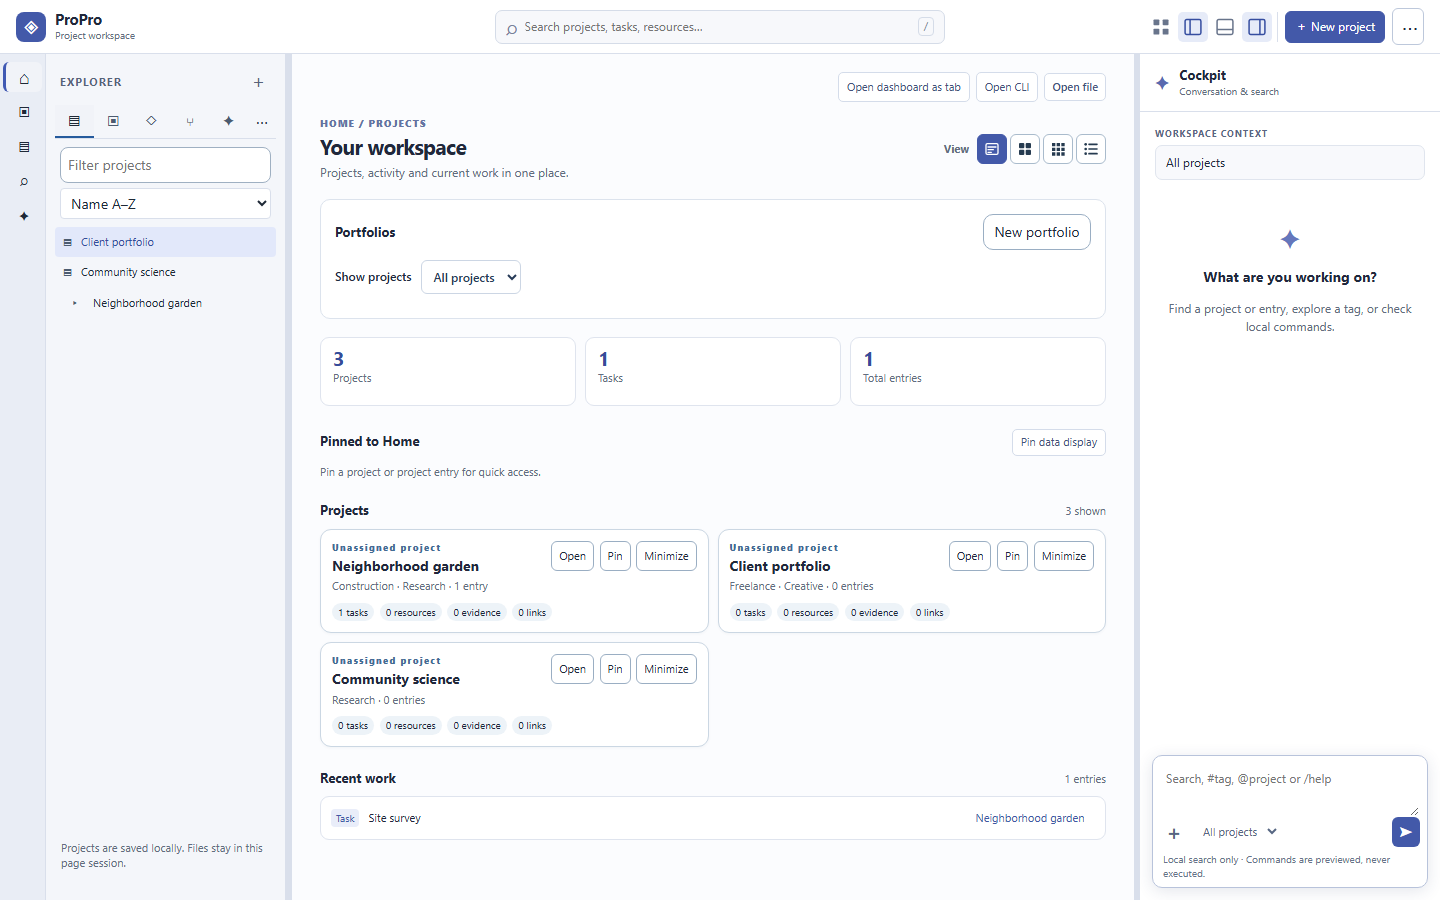
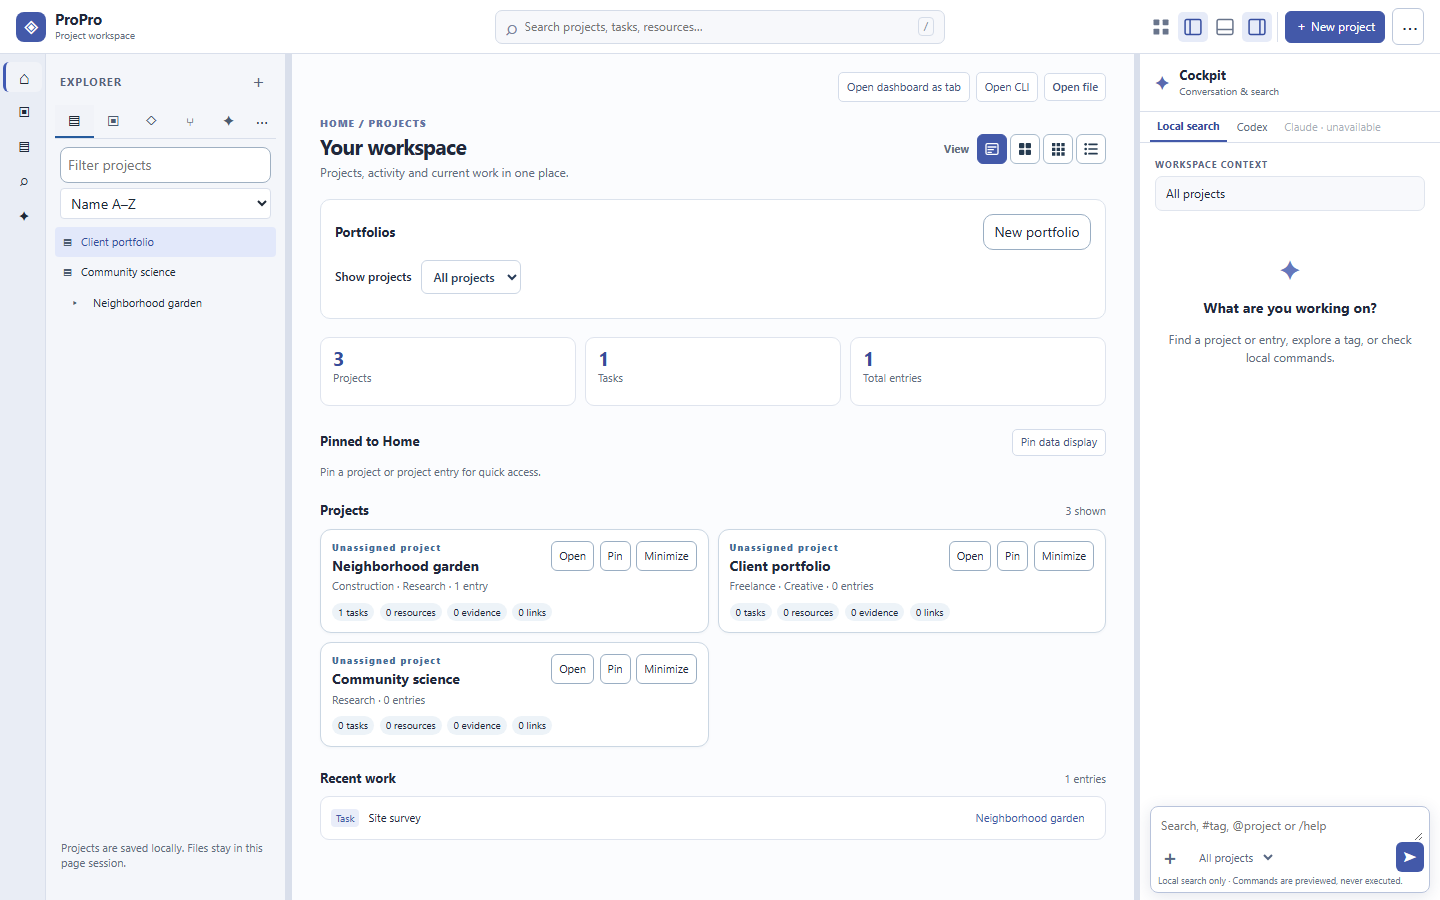
Bound workspace resizing and connect persistent Codex conversations
Change-Level: DRIVE
Dev-Docs: updated
Validation: 13 unit tests and 16 browser tests passed; real native session resumed after reload and history survived restart
Reason: Owner-requested fixed-height pane resizing, compact composer and real agent environment

diff --git a/index.html b/index.html
@@ -17,7 +17,7 @@
   <main id="workbench" aria-label="Project workspace">
     <aside id="explorer" aria-label="Workspace explorer"><div class="explorer-head"><h2>Explorer</h2><button type="button" data-new aria-label="Add project" title="Add project">＋</button></div><div id="tabbed-explorer"></div><p class="hint">Projects are saved locally. Files stay in this page session.</p></aside>
     <section id="content" aria-label="Project dashboard"><div class="content-head"><div><p class="eyebrow">HOME / PROJECTS</p><h2 id="dashboard-heading" tabindex="-1">Your workspace</h2><p id="project-count" class="muted"></p></div><div class="layout-picker"><span class="layout-picker__label" id="layout-label">View</span><div class="view-switch" role="group" aria-labelledby="layout-label"><button type="button" data-mode="large" aria-label="Large tiles" title="Large tiles"><svg viewBox="0 0 24 24" aria-hidden="true" focusable="false"><rect x="3" y="4" width="18" height="16" rx="2" fill="none" stroke="currentColor" stroke-width="2"/><path d="M6 9h12M6 13h8M6 17h5" fill="none" stroke="currentColor" stroke-width="2" stroke-linecap="round"/></svg></button><button type="button" data-mode="mini" aria-label="Mini tiles" title="Mini tiles"><svg viewBox="0 0 24 24" aria-hidden="true" focusable="false"><rect x="3" y="3" width="8" height="8" rx="1.5"/><rect x="13" y="3" width="8" height="8" rx="1.5"/><rect x="3" y="13" width="8" height="8" rx="1.5"/><rect x="13" y="13" width="8" height="8" rx="1.5"/></svg></button><button type="button" data-mode="grid" aria-label="Grid tiles" title="Grid tiles"><svg viewBox="0 0 24 24" aria-hidden="true" focusable="false"><path d="M3 3h5v5H3zm7 0h5v5h-5zm7 0h5v5h-5zM3 10h5v5H3zm7 0h5v5h-5zm7 0h5v5h-5zM3 17h5v5H3zm7 0h5v5h-5zm7 0h5v5h-5z"/></svg></button><button type="button" data-mode="list" aria-label="List tiles" title="List tiles"><svg viewBox="0 0 24 24" aria-hidden="true" focusable="false"><circle cx="4" cy="5" r="2"/><circle cx="4" cy="12" r="2"/><circle cx="4" cy="19" r="2"/><path d="M9 5h12M9 12h12M9 19h12" fill="none" stroke="currentColor" stroke-width="2.5" stroke-linecap="round"/></svg></button></div></div></div><section id="portfolios-home" class="portfolios-home" aria-label="Portfolios"></section><div id="overview-stats" class="overview-stats" aria-label="Workspace overview"></div><div class="section-head"><h3>Projects</h3><span id="section-count"></span></div><div id="cards" class="cards"></div><section id="recent-work" class="recent-work" aria-label="Recent work"></section><div id="detail"></div></section>
-    <aside id="context" aria-label="Conversation and search"><div class="context-head"><span class="context-icon" aria-hidden="true">✦</span><div><h2>Cockpit</h2><p>Conversation &amp; search</p></div></div><div class="context-content" tabindex="0" role="region" aria-label="Conversation content"><p class="context-eyebrow">WORKSPACE CONTEXT</p><div id="context-project" class="context-project">All projects</div><div class="context-welcome"><span class="context-spark" aria-hidden="true">✦</span><h3>What are you working on?</h3><p>Find a project or entry, explore a tag, or check local commands.</p></div><div id="composer-results" role="status" aria-live="polite"></div></div><form id="composer" class="composer"><label for="composer-input" class="sr-only">Ask or search workspace</label><textarea id="composer-input" rows="2" placeholder="Search, #tag, @project or /help"></textarea><div id="composer-suggestions" class="composer-suggestions" role="group" aria-label="Composer suggestions"></div><div id="composer-attachments" class="composer-attachments"></div><div class="composer-tools"><label class="attach-button" title="Add attachment" aria-label="Add attachment">＋<input id="composer-files" type="file" multiple></label><select id="composer-scope" aria-label="Search scope"><option value="all">All projects</option><option value="projects">Projects</option><option value="entries">Entries</option></select><button type="submit" class="composer-submit" aria-label="Search workspace" title="Search workspace">➤</button></div><p class="composer-note">Local search only · Commands are previewed, never executed.</p></form></aside>
+    <aside id="context" aria-label="Conversation and search"><div class="context-head"><span class="context-icon" aria-hidden="true">✦</span><div><h2>Cockpit</h2><p>Conversation &amp; search</p></div></div><div class="context-content" tabindex="0" role="region" aria-label="Conversation content"><p class="context-eyebrow">WORKSPACE CONTEXT</p><div id="context-project" class="context-project">All projects</div><div class="context-welcome"><span class="context-spark" aria-hidden="true">✦</span><h3>What are you working on?</h3><p>Find a project or entry, explore a tag, or check local commands.</p></div><div id="composer-results" role="status" aria-live="polite"></div></div><form id="composer" class="composer"><label for="composer-input" class="sr-only">Ask or search workspace</label><textarea id="composer-input" rows="1" placeholder="Search, #tag, @project or /help"></textarea><div id="composer-suggestions" class="composer-suggestions" role="group" aria-label="Composer suggestions"></div><div id="composer-attachments" class="composer-attachments"></div><div class="composer-tools"><label class="attach-button" title="Add attachment" aria-label="Add attachment">＋<input id="composer-files" type="file" multiple></label><select id="composer-scope" aria-label="Search scope"><option value="all">All projects</option><option value="projects">Projects</option><option value="entries">Entries</option></select><button type="submit" class="composer-submit" aria-label="Search workspace" title="Search workspace">➤</button></div><p class="composer-note">Local search only · Commands are previewed, never executed.</p></form></aside>
   </main>
   <dialog id="project-dialog" aria-labelledby="create-heading"><form id="project-form" class="stack"><h2 id="create-heading">Create project</h2><label>Project name<input name="name" maxlength="200" required placeholder="e.g. Neighborhood garden"></label><fieldset><legend>Capabilities (optional)</legend><div id="create-caps" class="cap-options"></div></fieldset><div class="row"><button class="primary" type="submit">Create project</button><button id="cancel-project" type="button">Cancel</button></div></form></dialog>
   <dialog id="portfolio-dialog" aria-labelledby="portfolio-heading"><form id="portfolio-form" class="stack"><h2 id="portfolio-heading">Create portfolio</h2><label>Portfolio name<input name="name" maxlength="200" required></label><div class="row"><button class="primary" type="submit">Save portfolio</button><button id="cancel-portfolio" type="button">Cancel</button></div></form></dialog>
@@ -26,5 +26,6 @@
   <script src="./node_modules/@cockpit/gui/src/tabbedExplorerUI.js"></script>
   <script src="./model.mjs"></script>
   <script src="./app.mjs"></script>
+  <script type="module" src="./chat-client.mjs"></script>
 </body>
 </html>

diff --git a/styles.css b/styles.css
@@ -233,8 +233,34 @@ body { background:#f5f6fa; }
 @media(min-width:1051px) {
   /* Keep a usable conversation row when the bottom panel is maximized.
      Short windows may scroll the page instead of overlapping the two panes. */
-  #workbench.has-bottom { min-height:max(540px,calc(var(--cockpit-bottom-height,240px) + 366px)); }
+  #workbench.has-bottom { min-height:0; }
 }
 @media(max-width:1050px) { #context.cockpit-workbench__context { min-height:330px; } }
 #context .composer-suggestions { overflow-y:auto; overscroll-behavior:contain; }
 #context .context-content:focus-visible { outline:2px solid var(--blue); outline-offset:-2px; }
+
+/* Desktop panes consume a fixed window budget; growing one shrinks the other. */
+@media(min-width:1051px){
+ html,body{height:100%;overflow:hidden}
+ body{display:flex;flex-direction:column;height:100dvh}
+ .site-header,.status{flex:none}
+ #workbench,#workbench.has-bottom{flex:1 1 0;height:auto;min-height:0;overflow:hidden}
+ #workbench.has-bottom{grid-template-rows:minmax(0,1fr) 6px min(var(--cockpit-bottom-height,240px),max(160px,calc(100% - 286px)))}
+ #content.cockpit-workbench__content{min-height:0;overflow:auto}
+ #workbench.has-bottom>#bottom-panel{overflow:hidden}
+}
+#context .composer{margin:7px 10px;padding:5px;border-radius:8px}
+#context .composer textarea{min-height:30px;height:30px;max-height:90px;padding:4px 5px;resize:vertical}
+#context .composer-note{margin:3px 2px 0;font-size:9px;line-height:1.3}
+.agent-environments{display:flex;flex:none;gap:3px;border-bottom:1px solid var(--border);padding:0 10px}
+.agent-environments button{border:0;border-radius:0;background:transparent;min-height:30px;padding:4px 7px;font-size:11px;color:#626d80}
+.agent-environments button[aria-selected=true]{border-bottom:2px solid #4359a9;color:#354c9a;font-weight:650}
+.agent-session-tools{display:flex;flex:none;gap:5px;padding:6px 10px;border-bottom:1px solid var(--border)}
+.agent-session-tools select{flex:1;min-width:0;max-width:100%;font-size:11px;border:1px solid #d5dce8;border-radius:5px;padding:4px}
+.agent-session-tools button{padding:4px 7px;font-size:11px;white-space:nowrap}
+.agent-session-tools[hidden],#agent-transcript[hidden],#agent-status[hidden]{display:none}
+.agent-message{font-size:12px;line-height:1.6;white-space:pre-wrap;overflow-wrap:anywhere;padding:10px 0;border-bottom:1px solid #e0e5ee}
+.agent-message strong{display:block;font-size:10px;color:#52658b;margin-bottom:5px}
+.agent-message.user{background:#f5f7fc;padding:9px;border-radius:7px;margin-top:10px}
+#agent-status{font-size:10px;color:#65728a;padding:5px 0}
+#context.agent-connected .context-welcome,#context.agent-connected #composer-results,#context.agent-connected .context-eyebrow,#context.agent-connected .composer-tools .attach-button,#context.agent-connected #composer-scope,#context.agent-connected #composer-suggestions{display:none}

diff --git a/docs/AGENT-CONVERSATIONS.md b/docs/AGENT-CONVERSATIONS.md
@@ -1,0 +1,31 @@
+# Right-pane agent conversations
+
+Date: November 7, 2026. Local implementation candidate; owner review remains open.
+
+## Current connection
+
+Codex is the first real agent environment. It runs through the locally installed Codex CLI and its existing account sign-in. No API key is stored in a browser or accepted through these routes. Local Search remains a separate environment. Claude is displayed as unavailable because no local Claude installation or configured adapter was verified. Lasso and a real terminal remain separate future work.
+
+The connection uses `codex exec` for the first turn and `codex exec resume <explicit-thread-id>` thereafter. Commands always select the read-only sandbox, disable approvals, and ignore user configuration to avoid inheriting writable defaults or connectors. There is no `--last` lookup, shared provider history, hidden execution agent, or write-enabled mode. The reporting pattern follows the [official Codex command reference](https://learn.chatgpt.com/docs/developer-commands#codex-exec).
+
+## Session and context boundaries
+
+The Node server saves conversation metadata, native Codex thread identity, messages, status, and timestamps in ignored `.propro/agents.json`. Writes are serialized and replaced atomically; corrupt storage fails closed. Native Codex history also persists in the user's CLI storage. Sessions survive browser reload and server restart. Interrupted turns remain visible and can be continued with a new message. One turn runs at a time; stop, timeout, failure, and message/session limits are explicit.
+
+Only the selected project name, capabilities, and up to 20 task titles (500 characters each) are supplied from browser project records. No selected project means no project record is attached. The assistant may inspect relevant project source and Git in this checkout under the read-only CLI policy; the prompt excludes credentials, unrelated personal files, `.propro`, Bootdog, and other repositories. Reading scope is a prompt constraint, not per-folder read isolation. Project writes, arbitrary command execution, uploads, remote fetching, and external connectors are not enabled. Browser-selected documents and attachments are not sent by this adapter.
+
+Agent history is private local runtime data for the current OS user, not an encrypted multi-user account store or a personal/professional authorization boundary. The server binds only to loopback, validates Host and POST Origin, bounds JSON bodies, and exposes an explicit route allowlist. It does not serve `.propro` or arbitrary files. Provider output renders as escaped text. Existing project records retain their original storage contract.
+
+## Interface
+
+The right pane has Local Search and Codex environment tabs, a saved-conversation selector, New chat and Stop controls, a transcript, progress/error status, and a compact input. Drafts and selected environment/conversation persist separately in browser storage. Switching environments or conversations preserves drafts. The tab labeled Claude is disabled and does not simulate a connection. Codex uses the selected-project indicator in its status line. Existing local-search suggestions and command previews remain unchanged in Local Search.
+
+The desktop shell uses a fixed viewport height. The bottom pane's requested height is clamped through the existing Cockpit GUI public API to leave a usable upper pane. Resizing redistributes the existing height; it does not increase page length. The composer starts at one line, with bounded manual growth, instead of occupying a large conversation area. Narrow screens retain the existing stacked-pane presentation.
+
+## Verification
+
+A real two-turn Codex conversation was exercised through the browser: a first turn stored a verification word, the browser reloaded, and the resumed native session returned that word on the next turn. Unit tests verify persistence, explicit native identity, concurrent-turn rejection, cancellation, failure preservation, restart recovery, corruption handling, and read-only invocation. Browser checks verify restored history, independent drafts, conversation/environment switching, project-data preservation, accessibility, compact composer sizing, and absence of page growth when resizing the bottom panel.
+
+Browser tests use a separate runtime history file under ignored `test-results/`; mocked provider responses do not invoke paid agent runs or alter the user's conversation store. Existing project-model and workspace regression suites remain required. Passing automated checks does not close owner visual acceptance or establish full accessibility conformance.
+
+Verified results: 13 unit tests and all 16 Chromium browser tests pass. A real native two-turn conversation survived browser reload, remembered its verification word, and remained available after a server restart. HTTP checks reject foreign POST origins, invalid request bodies, and direct access to private conversation storage. Repository-guidance findings recorded by the earlier portfolio slice remain separate and unresolved.

diff --git a/docs/PANE-WORKFLOWS.md b/docs/PANE-WORKFLOWS.md
@@ -41,3 +41,7 @@ Media playback or Spotify can be an optional dockable utility later. They do not
 The context body can shrink and scroll independently; the composer stays inside the context pane. Textarea and attachment growth are bounded. A maximized bottom panel retains a usable top conversation row; short desktop windows may scroll the page instead of allowing panes to overlap. Narrow screens retain stacked panes. No Cockpit GUI package or Lasso source was changed.
 
 Verified locally: the new browser regression reproduced the original composer overflow before the fix and passes afterward. It checks containment, independent content scrolling, maximum bottom height, laptop/desktop sizes, swapped side panes, draft preservation on pane toggles, and narrow reflow. All 6 model tests and 15 Chromium browser tests pass, including automated axe checks. The scrolling context region is keyboard-focusable and labeled. Existing bottom-panel reference captures were refreshed. Source inspection of Lasso is not an integration test or a compatibility claim.
+
+## Owner correction and connected session follow-up — November 7, 2026
+
+The owner found that the first containment fix made the page grow as the bottom border was dragged upward and left an oversized input. That behavior is superseded: desktop panes now share a fixed viewport budget, the bottom height is clamped through the package's public API, and the composer starts at one line. The right pane now has a real read-only Codex connection, persistent native conversations, independent drafts and Local Search switching. See `docs/AGENT-CONVERSATIONS.md` for actual behavior and limits. Claude is unavailable, not simulated. Lasso, a real terminal and media utilities remain proposals.

diff --git a/README.md b/README.md
@@ -10,7 +10,7 @@ ProPro is an adaptable project portal for construction, research, freelance, cre
 
 Current portfolio follow-up (November 7, 2026): the active checkout adds a browser-local portfolio creation, rename, membership, Home filtering, and Explorer grouping candidate. Existing version 1 project records remain compatible. See [portfolio scope and data contract](docs/PORTFOLIO-SLICE.md). Owner acceptance is still open; this note supersedes the feature-branch wording above for the current checkout and does not declare a release.
 
-Pane follow-up (November 7, 2026): the conversation composer is contained above the bottom panel while context content scrolls independently. [Pane workflow proposals](docs/PANE-WORKFLOWS.md) preserve the suggested agent tabs, internal-assistant role, Lasso workspace, real terminal, and optional media utilities. These integrations are proposals; the current right pane remains local search and the CLI scratchpad remains command preview.
+Pane follow-up (November 7, 2026): desktop pane resizing now redistributes a fixed window height and the input starts compact. The right pane connects to real, read-only Codex conversations with saved native session history, independent drafts and Local Search switching. See [agent conversations](docs/AGENT-CONVERSATIONS.md). [Pane workflow proposals](docs/PANE-WORKFLOWS.md) retain the future Lasso workspace, real terminal, and optional media ideas; the bottom CLI scratchpad remains command preview.
 
 - [Product charter](docs/PRODUCT-CHARTER.md)
 - [ProPro-001 scope and exit criteria](docs/PROPRO-001.md)
